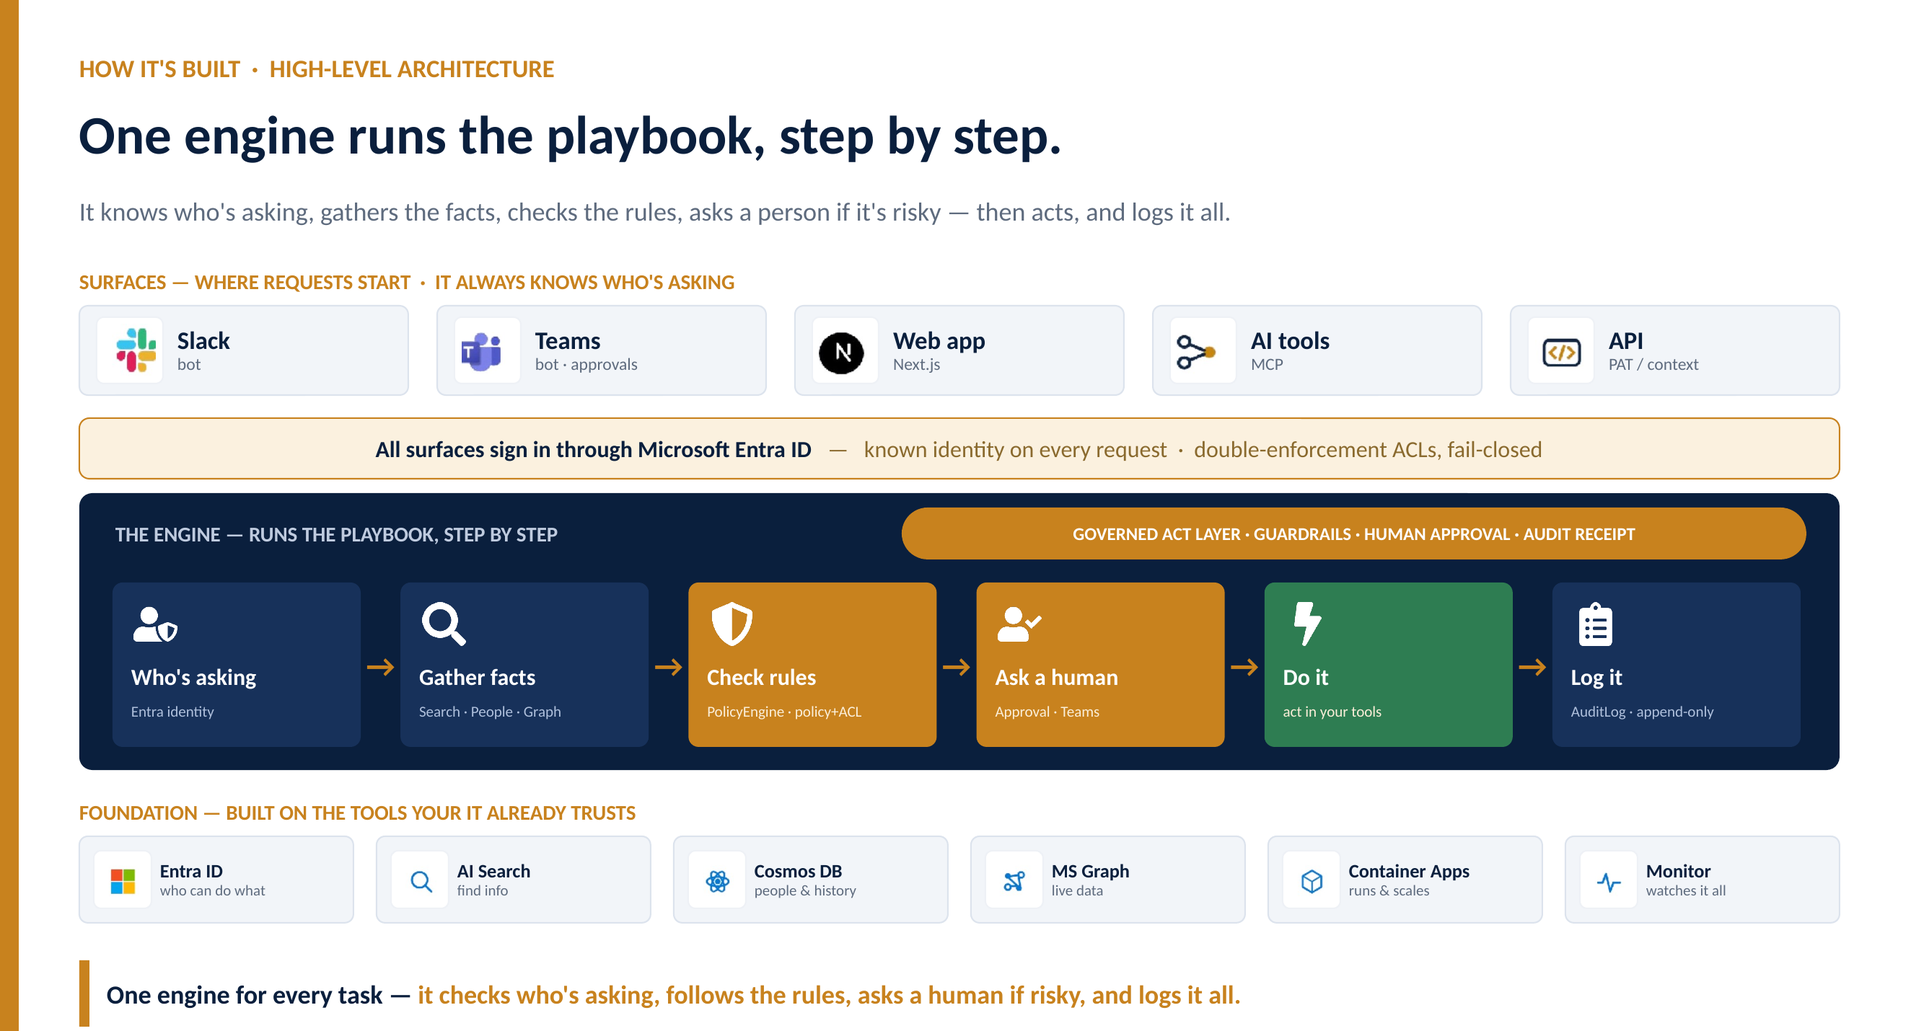
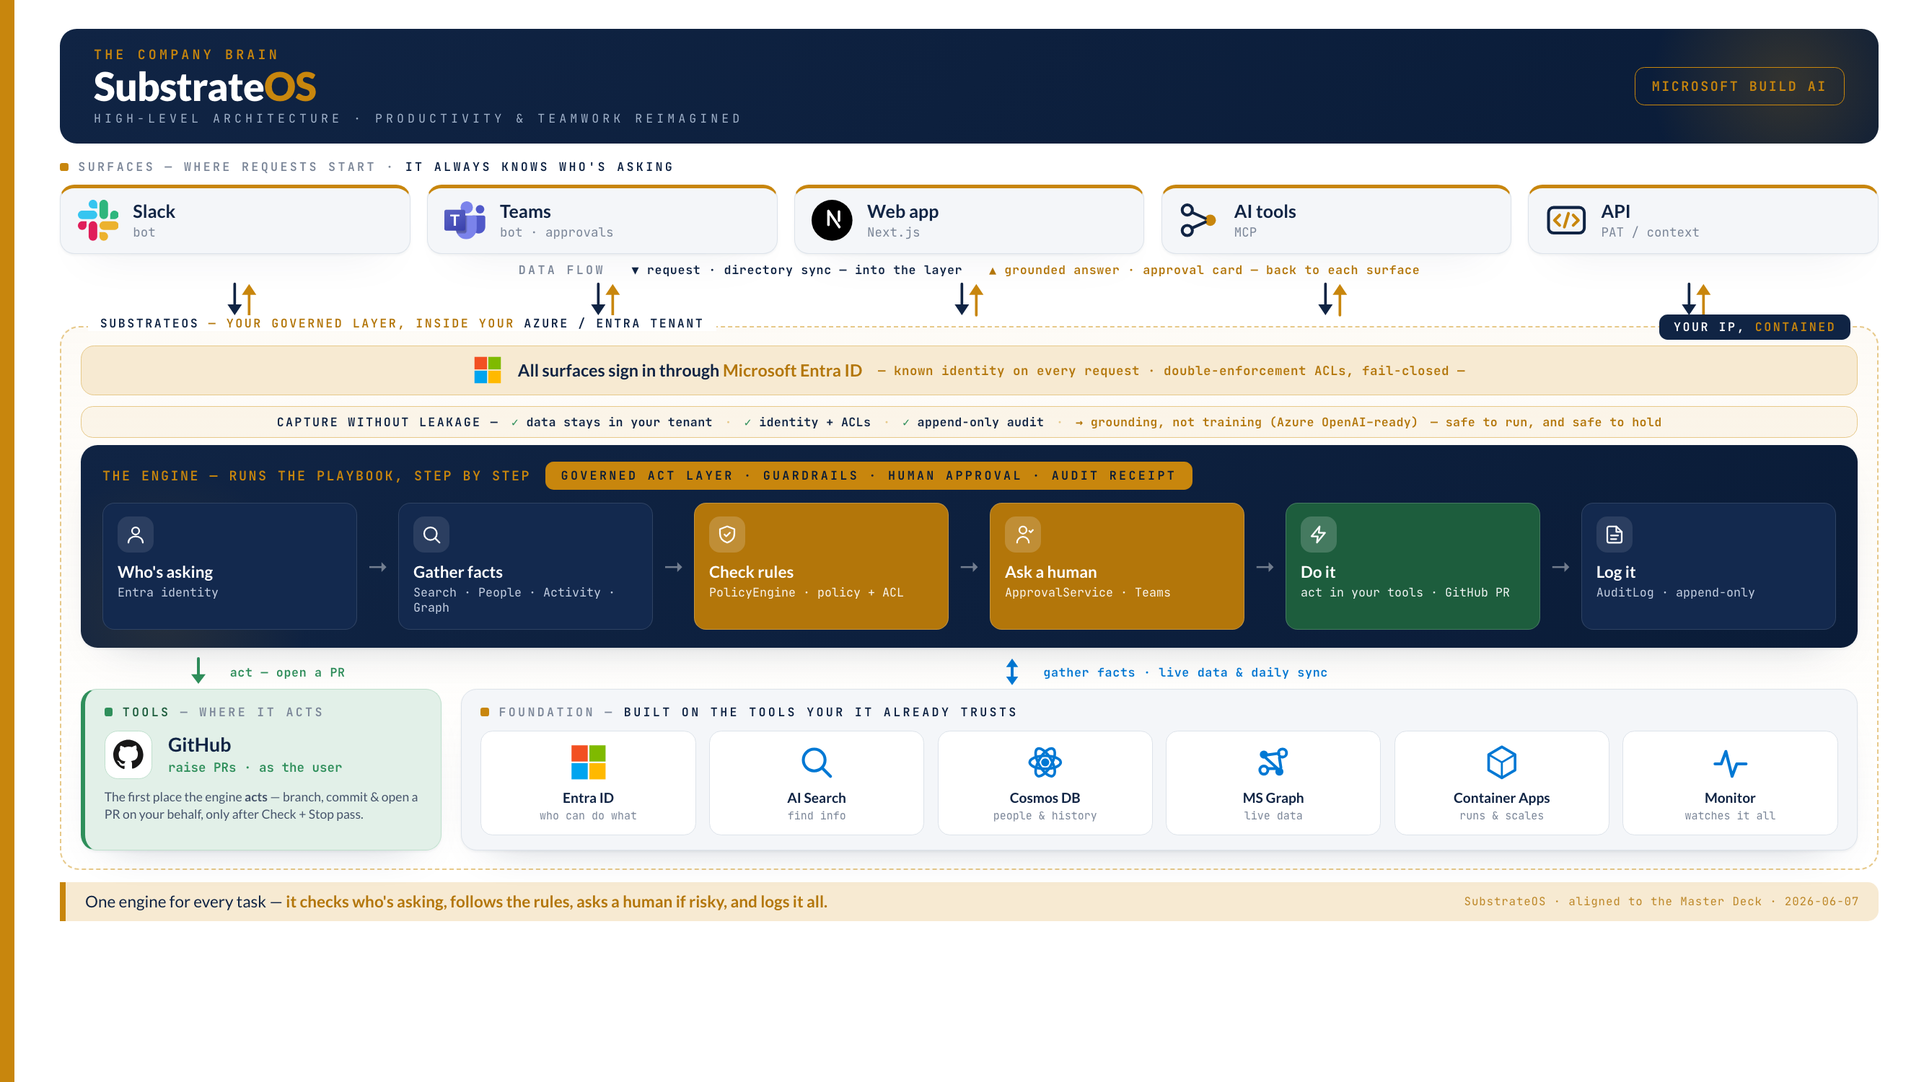
docs: capture IP-containment design rationale + roadmap (#2)
* docs: capture IP-containment design rationale + roadmap

Capture a critical platform design decision: codifying know-how for AI
destroys the tacit-knowledge moat, so SubstrateOS must rebuild it as
moat-by-containment. New docs/ip-containment.md holds the threat model, the
four containment controls, honest tensions, and a per-control status table.

README gains a 'Your IP, contained' positioning callout and an IP-containment
entry in Build status that names what's shipped (Entra+ACLs, append-only
audit) vs. the planned path forward (no-train Azure OpenAI deployment, fully
tenant-resident state, tamper-evident audit) so the gaps read as known and
planned, not hand-waved.

* docs: add IP-containment roadmap plan + link from README

Roadmap-level plan (not task-level) for the three unbuilt containment
controls — grounding-not-training (no-train enterprise model), fully
tenant-resident state, tamper-evident audit — with explicit 'deep dive
needed' callouts on the parts not yet figured out, plus sequencing and
dependencies. Makes the README 'each item has a plan' claim honest.

* docs: surface IP containment on the architecture diagram

Add a tenant boundary framing ('inside your Azure/Entra tenant'), a
'Your IP, contained' corner chip, and an honest containment-controls
ribbon (data-in-tenant / identity+ACLs / append-only audit shipped;
grounding-not-training marked Azure OpenAI-ready, not done) to the
high-level architecture mockup, and regenerate docs/architecture.png
[…]

diff --git a/mockups/architecture-high-level.html b/mockups/architecture-high-level.html
@@ -69,6 +69,18 @@
   .os-tag{position:absolute;top:-10px;left:22px;background:#fff;padding:0 10px;
     font-family:"JetBrains Mono",monospace;font-size:10px;font-weight:600;letter-spacing:1.5px;text-transform:uppercase;color:var(--amber-2)}
   .os-tag b{color:var(--navy)}
+  .os-tag-right{position:absolute;top:-11px;right:22px;background:var(--navy);color:#fff;padding:4px 12px;border-radius:7px;
+    font-family:"JetBrains Mono",monospace;font-size:10px;font-weight:700;letter-spacing:1.5px;text-transform:uppercase}
+  .os-tag-right span{color:var(--amber)}
+  .contain-ribbon{display:flex;align-items:center;justify-content:center;gap:10px;flex-wrap:wrap;
+    background:rgba(247,234,210,.40);border:1px solid var(--amber-line);border-radius:10px;
+    padding:6px 14px;margin-top:9px;font-family:"JetBrains Mono",monospace;font-size:10px;font-weight:600;letter-spacing:.2px}
+  .contain-ribbon .hd{color:var(--navy);text-transform:uppercase;letter-spacing:1.4px}
+  .contain-ribbon .ok{color:var(--green)}
+  .contain-ribbon .ok b{color:var(--navy);font-weight:700}
+  .contain-ribbon .next{color:var(--amber-2)}
+  .contain-ribbon .sep{color:var(--amber-line)}
+  .contain-ribbon .tail{color:var(--amber-2);font-weight:700}
 
   /* ENTRA GATEWAY */
   .gateway{display:flex;align-items:center;justify-content:center;gap:13px;
@@ -81,7 +93,7 @@
 
   /* ENGINE */
   .engine{background:linear-gradient(135deg,var(--navy),var(--navy-2));border-radius:14px;
-    padding:14px 18px 15px;box-shadow:var(--shadow);position:relative;overflow:hidden;margin-top:11px}
+    padding:14px 18px 15px;box-shadow:var(--shadow);position:relative;overflow:hidden;margin-top:6px}
   .engine::after{content:"";position:absolute;left:-50px;bottom:-90px;width:240px;height:240px;border-radius:50%;
     background:radial-gradient(circle,rgba(200,134,13,.12),transparent 70%)}
   .engine .top{display:flex;align-items:center;gap:12px;margin-bottom:11px;position:relative;z-index:2}
@@ -274,7 +286,8 @@
 
   <!-- ===== SUBSTRATEOS LAYER ===== -->
   <div class="os-layer">
-    <span class="os-tag"><b>SubstrateOS</b> — the governed layer · identity · engine · foundation</span>
+    <span class="os-tag"><b>SubstrateOS</b> — your governed layer, inside your <b>Azure / Entra tenant</b></span>
+    <span class="os-tag-right">Your IP, <span>contained</span></span>
 
     <!-- ENTRA GATEWAY -->
     <div class="gateway">
@@ -288,6 +301,16 @@
       </div>
       <b>All surfaces sign in through <span>Microsoft Entra ID</span></b>
       <span class="sub">— known identity on every request · double-enforcement ACLs, fail-closed —</span>
+    </div>
+
+    <!-- IP CONTAINMENT RIBBON -->
+    <div class="contain-ribbon">
+      <span class="hd">Capture without leakage —</span>
+      <span class="ok">✓ <b>data stays in your tenant</b></span><span class="sep">·</span>
+      <span class="ok">✓ <b>identity + ACLs</b></span><span class="sep">·</span>
+      <span class="ok">✓ <b>append-only audit</b></span><span class="sep">·</span>
+      <span class="next">→ grounding, not training <b>(Azure OpenAI–ready)</b></span>
+      <span class="tail">— safe to run, and safe to hold</span>
     </div>
 
     <!-- ENGINE -->

diff --git a/docs/ip-containment.md b/docs/ip-containment.md
@@ -1,0 +1,141 @@
+# SubstrateOS — Your IP, Contained
+
+> **Status: design rationale.** This captures a critical design decision for the
+> platform — *capture without leakage*. Some controls are shipped; the headline
+> one (no-train enterprise model posture) is **design intent, not yet baked in**.
+> Each control below carries an honest status. See [Status today](#status-today).
+
+Preserving company know-how in the AI era. Internal reference for why
+containment is load-bearing — not a feature, the precondition for the whole
+thesis.
+
+---
+
+## 1. The paradox (start here)
+
+In the human-capital era, the **tacitness of your know-how *was* the moat.** A
+competitor couldn't copy how your best people work because nobody could fully
+articulate it — it lived in heads, dispersed across hundreds of people, sticky
+and embodied. Leakage happened, but through *attrition*: one person leaves, takes
+a fragment, and even that fragment degrades because it was never the whole
+picture. Slow, partial, self-limiting.
+
+The AI era inverts this. To make know-how **runnable**, you have to make the
+implicit explicit — write it into Skills, steps, rules, context. The moment it's
+legible to a machine, it's legible to anyone: concentrated in one library, fully
+articulated, copyable in a single action. **The act that creates the value
+destroys the natural protection** — and the downside is *amplified*, because a
+competitor who gets your codified playbook gets the finished article, not a hazy
+sense of how you operate.
+
+So the real question isn't "can we capture our know-how?" It's: **can we capture
+it without it escaping into a model or vendor we don't control?** Capture without
+containment just hands someone your advantage in a cleaner format than they could
+ever have assembled themselves.
+
+**The trade:** you give up *moat-by-tacitness* and rebuild it as
+*moat-by-containment* — which only holds if the containment is **real and
+architectural, not a checkbox.**
+
+## 2. The threat model has changed
+
+| | Human-capital era | AI / agentic era |
+|---|---|---|
+| **Where IP lives** | In heads | Codified in systems, prompts, models |
+| **Nature** | Tacit, dispersed, sticky, non-fungible | Explicit, concentrated, fungible, copyable |
+| **Leakage mode** | By attrition — slow, partial | By extraction / copy — fast, potentially total |
+| **Protected by** | Retention, NDAs, culture | Tenant isolation, grounding-not-training, identity + audit |
+
+## 3. New leakage vectors (that didn't exist when it was in heads)
+
+- **Vendor absorption** *(the big one)* — know-how sent to a third-party model
+  that logs / retains / trains becomes part of *someone else's* model and can
+  surface for competitors. You taught the vendor's model how your company works.
+- **Concentration / wholesale copy** — codified IP is one library, not 10,000
+  heads. A single misconfigured share, rogue export, or breach copies the *entire
+  operational brain* at once.
+- **Model memorization / cross-tenant bleed** — knowledge baked into a shared or
+  fine-tuned model can be extracted by prompting or leak across tenants.
+- **Inference by aggregation** — even without raw data, an external agent that
+  observes enough of your runs can *infer* your playbook from patterns, outputs,
+  and telemetry.
+- **Exhaust leakage** — agent traces, logs, and observability data shipped to
+  external tools quietly carry process IP out the side door.
+
+## 4. How SubstrateOS contains it — the four controls
+
+1. **Stays in your tenant.** The Skills/library live in *your* Azure/Entra
+   boundary — your Cosmos DB, your storage — not a vendor cloud or a shared model.
+2. **Grounding, not training** *(the technical crux)*. Know-how is *retrieved as
+   context at inference time*, never baked into model weights that leave your
+   control. The model is a reasoning engine over your grounded data; the vendor
+   never absorbs your playbooks. **What makes this real** is an enterprise model
+   deployment with **no-train + data-residency** guarantees — the difference
+   between "using a model" and "feeding your IP into one."
+3. **Identity-scoped access (Entra + ACLs).** Even internally, the know-how isn't
+   a free-for-all; who and what can read each Skill is governed at query time,
+   limiting lateral movement.
+4. **Append-only audit.** Every access and run is logged, so leakage becomes
+   *detectable* instead of invisible. You can't audit who accessed an expert's
+   intuition; you *can* audit who touched a Skill.
+
+> **The governance frame does double duty.** The guardrails / identity / audit
+> band isn't only "safe to **run**" (don't take the wrong action) — it's equally
+> "safe to **hold**" (don't let the know-how escape). Same frame, two jobs — and
+> the second is the one a CISO actually loses sleep over.
+
+## 5. Status today
+
+Honest mapping of each control to what's actually implemented, so this reads as
+an engineering reference and not a brochure.
+
+| Control | Status | Where it stands |
+|---|---|---|
+| **Stays in your tenant** | 🟡 Partial | Library & connector data persist in **Cosmos DB** inside the Azure/Entra tenant (`app/connectors/cosmos_store.py`). But model **inference egresses to Google's Gemini API** (see next row), and run/audit state is currently Redis-backed. "Fully in-tenant" requires closing both. |
+| **Grounding, not training** | 🔴 Design intent | The *grounding* half is real: it's RAG — know-how is injected as context, nothing is fine-tuned into weights. The *vendor-containment* half is **not yet true**: answers run on **Gemini 2.5 Pro via the Google AI Studio API** (`app/generation/gemini.py`), a third-party endpoint whose data terms are **not** an enterprise no-train + data-residency deployment. **This is the headline gap.** Target: Azure OpenAI (or Vertex enterprise) with contractual no-train + residency. The deck's "Gemini today, Azure OpenAI–ready" *is* this gap. |
+| **Identity-scoped access (Entra + ACLs)** | 🟢 Shipped | Entra SSO on every surface; query-time ACL filter (`app/acl/enforcement.py` → `build_acl_filter`, applied in `app/retrieval/`); Skill Studio gated to an Entra SME group, fail-closed. |
+| **Append-only audit** | 🟢 Shipped *(hardening pending)* | Immutable, identity-stamped event log per run (`app/audit/log.py` — "Events are immutable"), surfaced as the governance receipt `GET /runs/{id}`. Hardening target: tamper-evident / WORM-grade store with retention, rather than Redis with in-process degradation. |
+
+## 6. Honest tensions (don't get caught flat-footed)
+
+- **Usability vs. secrecy.** Legibility to machines *is* copyability. You can't
+  make know-how maximally runnable and maximally secret at once; you push the
+  frontier — maximum usefulness with maximum containment — but the honest claim
+  is **"contained, governed, auditable, never vendor-absorbed," not
+  "unleakable."** A determined insider with access can always exfiltrate; no
+  architecture fixes that.
+- **You're creating a high-value target.** Concentrating the IP into one library
+  is itself a risk — which is precisely why first-class security (encryption,
+  isolation, audit) and Microsoft's enterprise substrate are **load-bearing, not
+  nice-to-have.**
+- **The vendor guarantee is a dependency, not magic.** "Grounding not training"
+  is only as strong as the deployment's data terms. Name the Azure/no-train
+  posture explicitly; don't wave at it. (Today that posture is *aspirational* —
+  see [Status](#status-today).)
+
+## 7. Why it matters
+
+1. **Kills the security objection** that quietly ends most enterprise AI deals —
+   the CISO's "where does our data and our process go?" Containment is the real,
+   architectural answer.
+2. **It's the moat argument** for the CEO/board — and the precondition for
+   everything else. Compounding only makes the library a moat *if it stays
+   contained*; a library that leaks stops appreciating the moment a competitor has
+   a copy. Containment is what makes "the library is the moat" actually **true**.
+
+## 8. One-liners
+
+> "In the old world your know-how walked out one person at a time. In the AI world
+> it can be copied all at once. SubstrateOS makes your know-how runnable without
+> making it leakable."
+
+> "The moment you write your know-how down for AI, it becomes copyable — so we
+> capture it to stay yours: in your tenant, used as grounding not training, never
+> absorbed by a model or a vendor."
+
+---
+
+*Related: the governance receipt and approval/audit machinery
+([`app/audit/`](../substrateos-api/app/audit/), [`app/approvals/`](../substrateos-api/app/approvals/),
+[`app/policy/`](../substrateos-api/app/policy/)) are the "safe to run" half of the
+same frame this doc reads as "safe to hold."*

diff --git a/docs/superpowers/plans/2026-06-12-ip-containment-roadmap.md b/docs/superpowers/plans/2026-06-12-ip-containment-roadmap.md
@@ -1,0 +1,117 @@
+# IP Containment — Roadmap
+
+> **Status: roadmap.** This is a forward-looking plan, not a task-level
+> implementation plan. It captures intent, candidate direction, and sequencing
+> for the IP-containment controls that are **not yet built**. Items marked
+> **🔍 Deep dive needed** are not yet figured out and require their own design
+> pass before implementation.
+>
+> Rationale and threat model: [`../../ip-containment.md`](../../ip-containment.md).
+
+**Goal:** make "capture without leakage" real and architectural. Two of the four
+containment controls are already live — identity-scoped access (Entra + ACLs) and
+append-only audit. This roadmap covers closing the remaining three so the platform
+can honestly claim *"contained, governed, auditable, never vendor-absorbed."*
+
+**Current status (for context):**
+
+| Control | Today | This roadmap |
+|---|---|---|
+| Identity-scoped access (Entra + ACLs) | 🟢 Shipped (`app/acl/`) | — |
+| Append-only audit | 🟢 Shipped (`app/audit/`) | Workstream 3 (harden) |
+| Stays in your tenant | 🟡 Partial | Workstream 2 |
+| Grounding, not training (no vendor absorption) | 🔴 Not started | Workstream 1 *(load-bearing)* |
+
+---
+
+## Workstream 1 — Grounding, not training (the crux)
+
+**Why it's load-bearing:** this is the control the whole "your IP stays yours"
+claim rests on. Until it's closed, the "no vendor absorbs your playbooks" line is
+aspirational. It gates the CISO security story and the moat argument.
+
+**Where we are:** answer generation runs on **Gemini 2.5 Pro via the Google AI
+Studio API** (`app/generation/gemini.py`). The grounding *pattern* is already
+correct — know-how is retrieved as context at inference time, nothing is
+fine-tuned into weights — but the *vendor posture* is not: AI Studio's data terms
+are not an enterprise no-train + data-residency deployment.
+
+**Direction:** move generation to an enterprise model deployment with
+contractual **no-train + data-residency** guarantees — the deck's
+"Gemini today, Azure OpenAI–ready." Azure OpenAI is the leading candidate
+(consistent with the Microsoft substrate); Vertex enterprise is a fallback.
+
+**🔍 Deep dive needed:**
+- Confirm the exact no-train / data-residency contractual terms for the target
+  deployment — name them explicitly; don't wave at them.
+- Model parity: validate answer quality + plan-step classification against the
+  current Gemini baseline before switching (we have eval harness — `eval/run_eval.py`).
+- Abstraction: today there's a `GeminiClient`; decide whether to generalize the
+  generation client behind an interface so the model is swappable per tenant.
+- Cost / latency / quota implications of the target deployment.
+
+**Done when:** generation runs on a deployment whose data terms are named and
+no-train, with eval parity to the current baseline.
+
+---
+
+## Workstream 2 — Fully tenant-resident state
+
+**Where we are:** the library and connector data persist in **Cosmos DB** inside
+the Azure/Entra tenant (`app/connectors/cosmos_store.py`), but run/audit state is
+currently Redis-backed, and model inference egresses to a third-party API (see
+Workstream 1).
+
+**Direction:** keep the library, run state, and audit log inside the
+Azure/Entra boundary end to end, so there's no path by which the operational
+brain leaves the tenant.
+
+**🔍 Deep dive needed:**
+- Inventory every egress point (model calls, telemetry/exhaust, any external
+  store) and classify each as in-tenant / acceptable / must-close.
+- Decide the durable home for run + audit state (stays Redis-in-tenant vs. moves
+  to Cosmos) — see Workstream 3, this overlaps.
+- Exhaust-leakage review: where do traces/logs/observability go (Azure Monitor
+  is in-tenant; confirm nothing ships process IP to external tools).
+
+**Done when:** a documented egress map shows the operational brain (library, runs,
+audit, inference) stays within the tenant boundary.
+
+---
+
+## Workstream 3 — Tamper-evident audit
+
+**Where we are:** the AuditLog is append-only and identity-stamped, with immutable
+events per run (`app/audit/log.py`), surfaced as the governance receipt
+(`GET /runs/{id}`). It's append-only *by discipline* on a Redis-backed store with
+in-process degradation — not a tamper-evident / WORM-grade store.
+
+**Direction:** harden the audit log toward a tamper-evident store with retention,
+so "leakage becomes detectable" holds up to a CISO's scrutiny, not just ours.
+
+**🔍 Deep dive needed:**
+- Choose the durable, append-only-enforced backing store + retention policy.
+- Decide whether tamper-evidence is hash-chaining / signing vs. a managed WORM
+  store, and what threat it must withstand (insider edit, store compromise).
+
+**Done when:** the audit trail is on a store that enforces immutability +
+retention, with a stated tamper-evidence mechanism.
+
+---
+
+## Sequencing & dependencies
+
+1. **Workstream 1 first** — it's load-bearing and unblocks the headline claim.
+   The model-client abstraction it introduces is reusable.
+2. **Workstream 2** overlaps with 1 (closing inference egress is part of both) and
+   with 3 (run/audit state home).
+3. **Workstream 3** can proceed in parallel; it's the most self-contained.
+
+**Cross-cutting honest tension** (from the rationale doc): you can't make know-how
+maximally runnable *and* maximally secret. The target is "maximum usefulness with
+maximum containment," not "unleakable." This roadmap pushes the frontier; it does
+not claim to eliminate insider exfiltration.
+
+**Out of scope here:** per-tenant model isolation at scale, and the broader infra
+hardening (APIM, OTel, Event Hubs, per-tenant index isolation) tracked separately
+under *Infra (needs Entra)* in the README.

diff --git a/README.md b/README.md
@@ -12,6 +12,13 @@ SubstrateOS is the company's brain: it captures that know-how and makes it runna
 
 ![SubstrateOS — high-level architecture](docs/architecture.png)
 
+**Your IP, contained.** Codifying know-how for AI is the same act that destroys
+its old tacit moat — once it's legible to a machine, it's copyable in one action.
+SubstrateOS rebuilds the moat as *containment*: stays in your tenant · grounding,
+not training · identity-scoped access · append-only audit. The governance frame
+is "safe to run" **and** "safe to hold." Design rationale and honest status of
+each control: [`docs/ip-containment.md`](docs/ip-containment.md).
+
 *Setup and run instructions are below. Architecture spec: [`docs/superpowers/specs/`](docs/superpowers/specs/) · implementation plans: [`docs/superpowers/plans/`](docs/superpowers/plans/).*
 
 ---
@@ -107,6 +114,24 @@ Phase 1 baseline: 1.0 / 1.0 on 10 golden Qs (2026-05-29).
 - Skill **Studio** (`/studio`): an SME describes how the work is done in plain
   English → AI drafts a skill → a manager reviews and approves before it goes
   live (Entra SME-group gated, fail-closed).
+
+**IP containment (capture without leakage) — partly shipped, path mapped.**
+Two of the four containment controls are live today: identity-scoped access
+(Entra + ACLs) and append-only audit. The rest is **planned, not hand-waved** —
+we know the path forward:
+
+- *Grounding, not training (the crux) — next.* Answer generation runs on Gemini
+  today; the planned move is an enterprise **no-train + data-residency** model
+  deployment (Azure OpenAI — the deck's "Gemini today, Azure OpenAI–ready"), so
+  no vendor ever absorbs the playbooks.
+- *Fully tenant-resident — next.* Keep the library and run/audit state inside the
+  Azure/Entra boundary end to end.
+- *Tamper-evident audit — next.* Harden the append-only log toward a WORM-grade
+  store with retention.
+
+Rationale and threat model: [`docs/ip-containment.md`](docs/ip-containment.md).
+Roadmap with deep-dive callouts:
+[`docs/superpowers/plans/2026-06-12-ip-containment-roadmap.md`](docs/superpowers/plans/2026-06-12-ip-containment-roadmap.md).
 
 **Infra (needs Entra) — next.** Per-user OBO for Live Fetch, APIM gateway,
 OpenTelemetry, Event Hubs ingest, per-tenant index isolation, JWKS caching.
